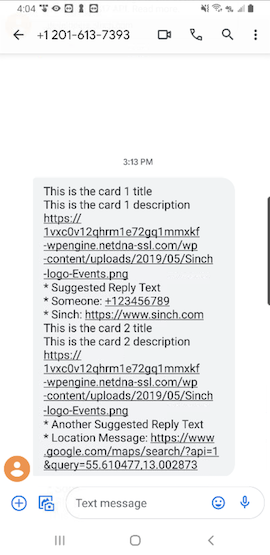
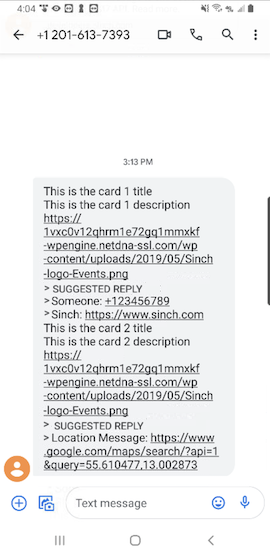
update mms pics and adjust json

Changed region(s): [[0.1481, 0.7351, 0.6519, 0.7964], [0.1481, 0.4901, 0.5926, 0.582], [0.6815, 0.7351, 0.7407, 0.7964]]

diff --git a/docs/conversation/conversation-channel-support/conversation-mms.md b/docs/conversation/conversation-channel-support/conversation-mms.md
@@ -164,7 +164,7 @@ Conversation API POST `messages:send`
       "choices": [
         {
           "text_message": {
-            "text": "Suggested Reply Text"
+            "text": "Suggested Reply"
           }
         },
         {
@@ -203,6 +203,7 @@ Conversation API POST `messages:send`
   "message": {
     "card_message": {
       "title": "This is the best MMS card title",
+      "description": "This is the card description"
       "media_message": {
         "url": "https://1vxc0v12qhrm1e72gq1mmxkf-wpengine.netdna-ssl.com/wp-content/uploads/2019/05/Sinch-logo-Events.png"
       },
@@ -232,7 +233,7 @@ Conversation API POST `messages:send`
 
 The rendered message:
 
-![Card Message With URL Choice](images/channel-support/mms/MMS_card_message.png)
+![Card Message](images/channel-support/mms/MMS_card_message.png)
 
 ###### Carousel Messages
 
@@ -256,7 +257,7 @@ Conversation API POST `messages:send`
           "choices": [
             {
               "text_message": {
-                "text": "Suggested Reply Text"
+                "text": "Suggested Reply"
               }
             },
             {
@@ -282,7 +283,7 @@ Conversation API POST `messages:send`
           "choices": [
             {
               "text_message": {
-                "text": "Another Suggested Reply Text"
+                "text": "Suggested Reply"
               }
             },
             {
